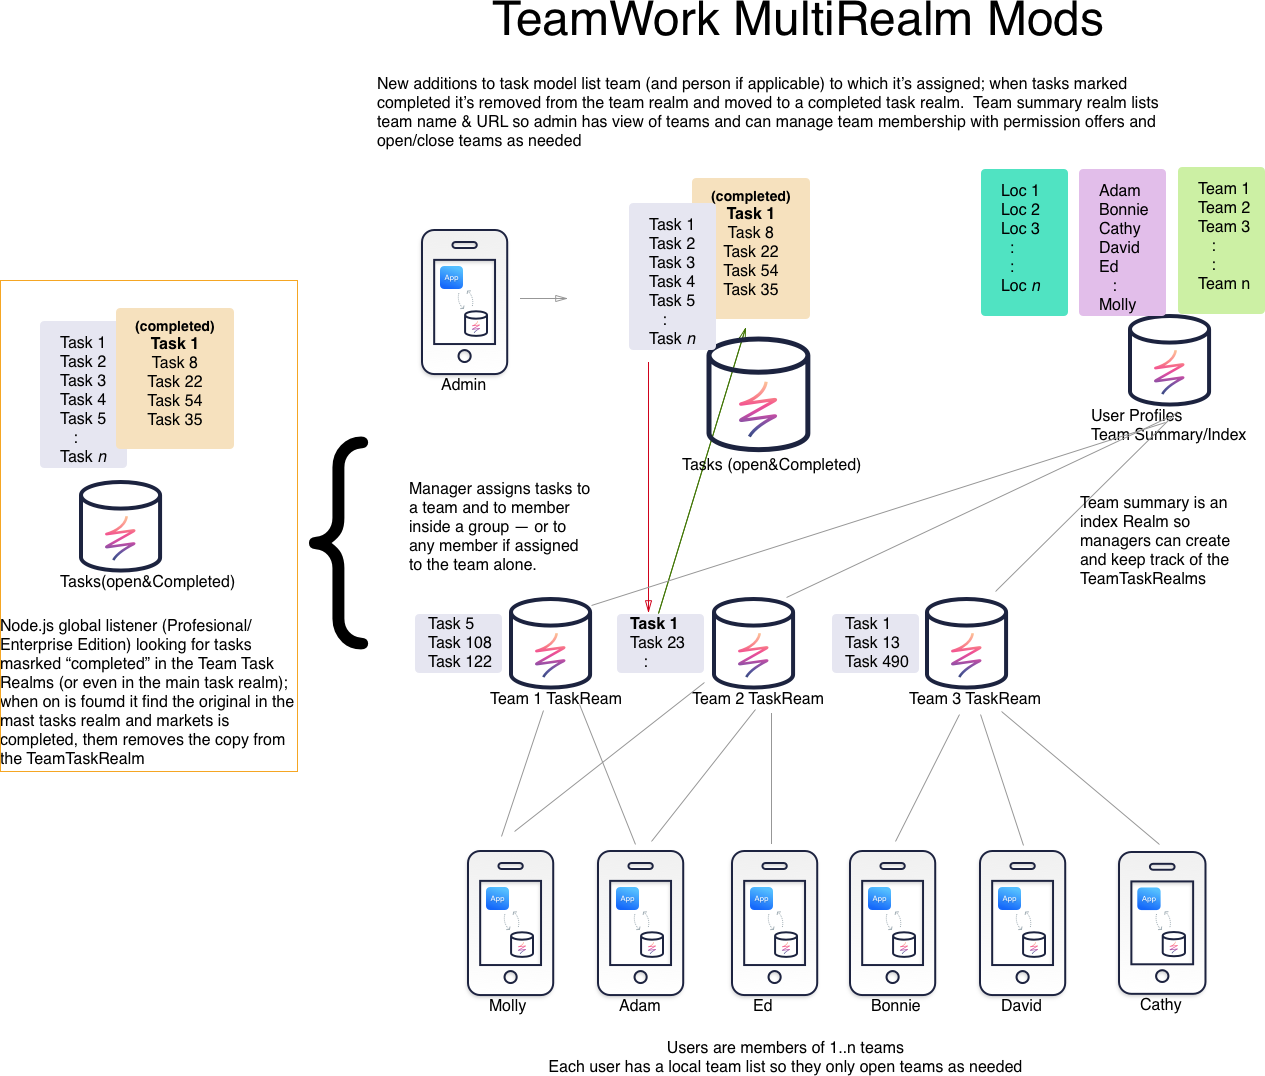
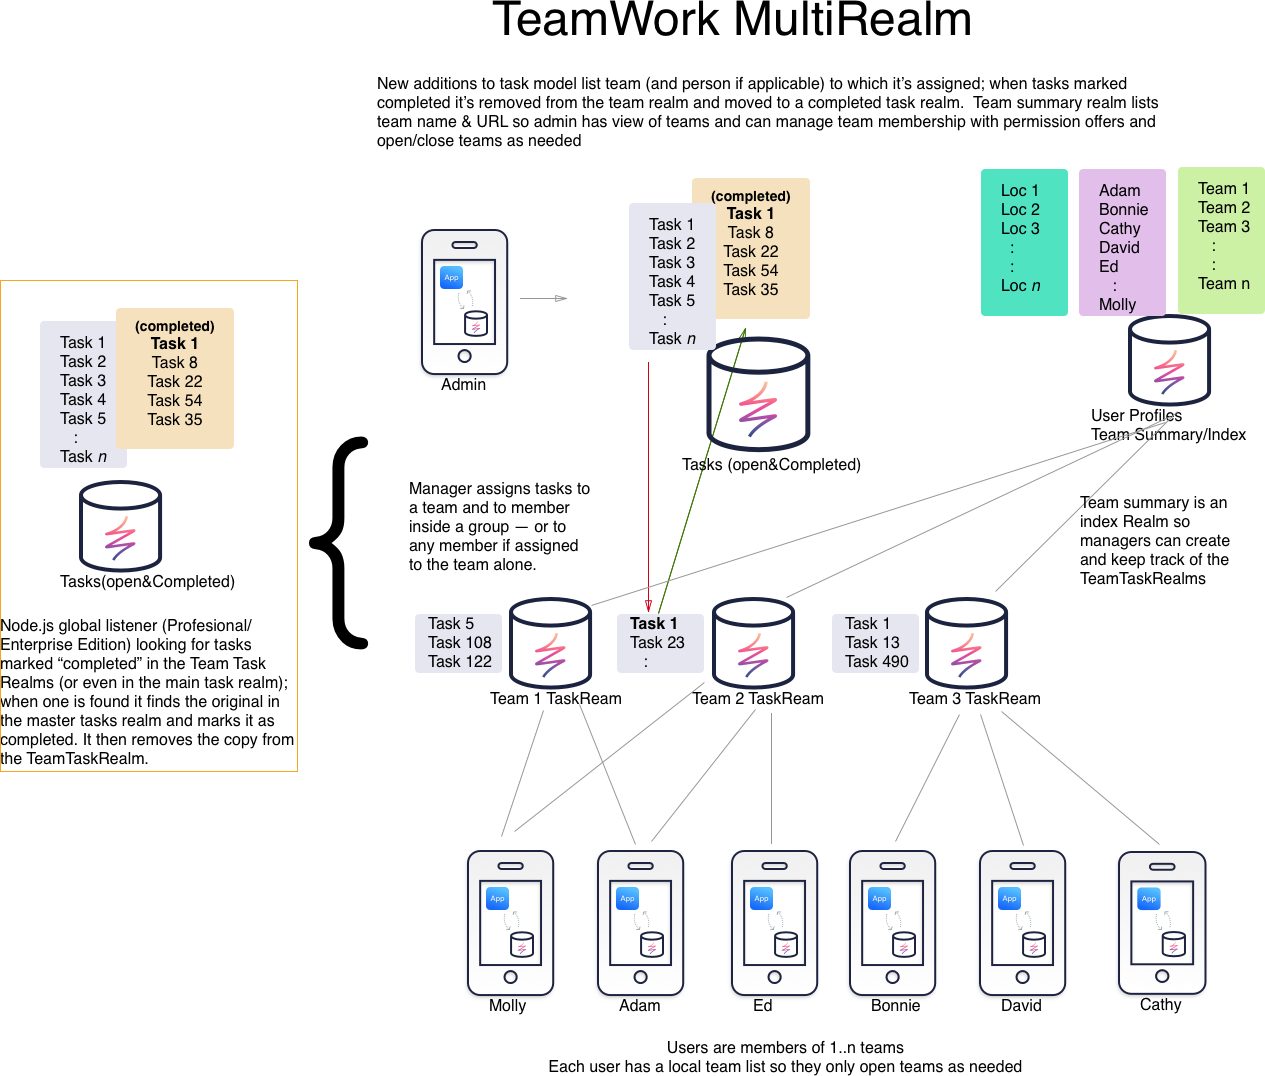
- Updateed arch images for content, some typo fixes
- More minor copyediting on main readme

Changed region(s): [[0.0, 0.6134, 0.2466, 0.7054], [0.7708, 0.0, 0.8941, 0.0307]]

diff --git a/README.md b/README.md
@@ -172,7 +172,7 @@ Tapping on the record for a person will reveal detail about that person's assign
 
 # Application Architecture
 
-TeamWork implemented an idealized, minimal model that describes the the basic types needed to implement or field service style application:
+TeamWork implements an idealized model that describes the the basic types needed to implement or field service style application:
  <center> <img src="Graphics/Teamwork-Model-Multi-Realm.png"/><br/>TeamWork Models</center><br>
 
 The basic architecture describes 3 business entities and a role mechanism:
@@ -185,7 +185,10 @@ The basic architecture describes 3 business entities and a role mechanism:
 - The *Role* model implements an application specific system for deciding who can see what objects inside TeamWork. This is something application specific, so Realm does not impose any hardcoded defaults on how your app and your users data access should be managed.  Here in TeamWork _manager_ users are effectively "super users" who can see all tasks, other users and cna create or modify any object in the system, while "workers" are limited to seeing only their own  assigned tasks.
 
 - The *Teams* model implements an index Realm for Admin/Manager users where they can create and manage
+
+
 These simple models are composed into a multi-Realm system that looks like this:
+
 <center> <img src="Graphics/TeamWork-Multi-Realm-Overview.png"/><br/>TeamWork Model Overview</center><br>
 
 ## The Admin/Manager Model/Realm Flow
